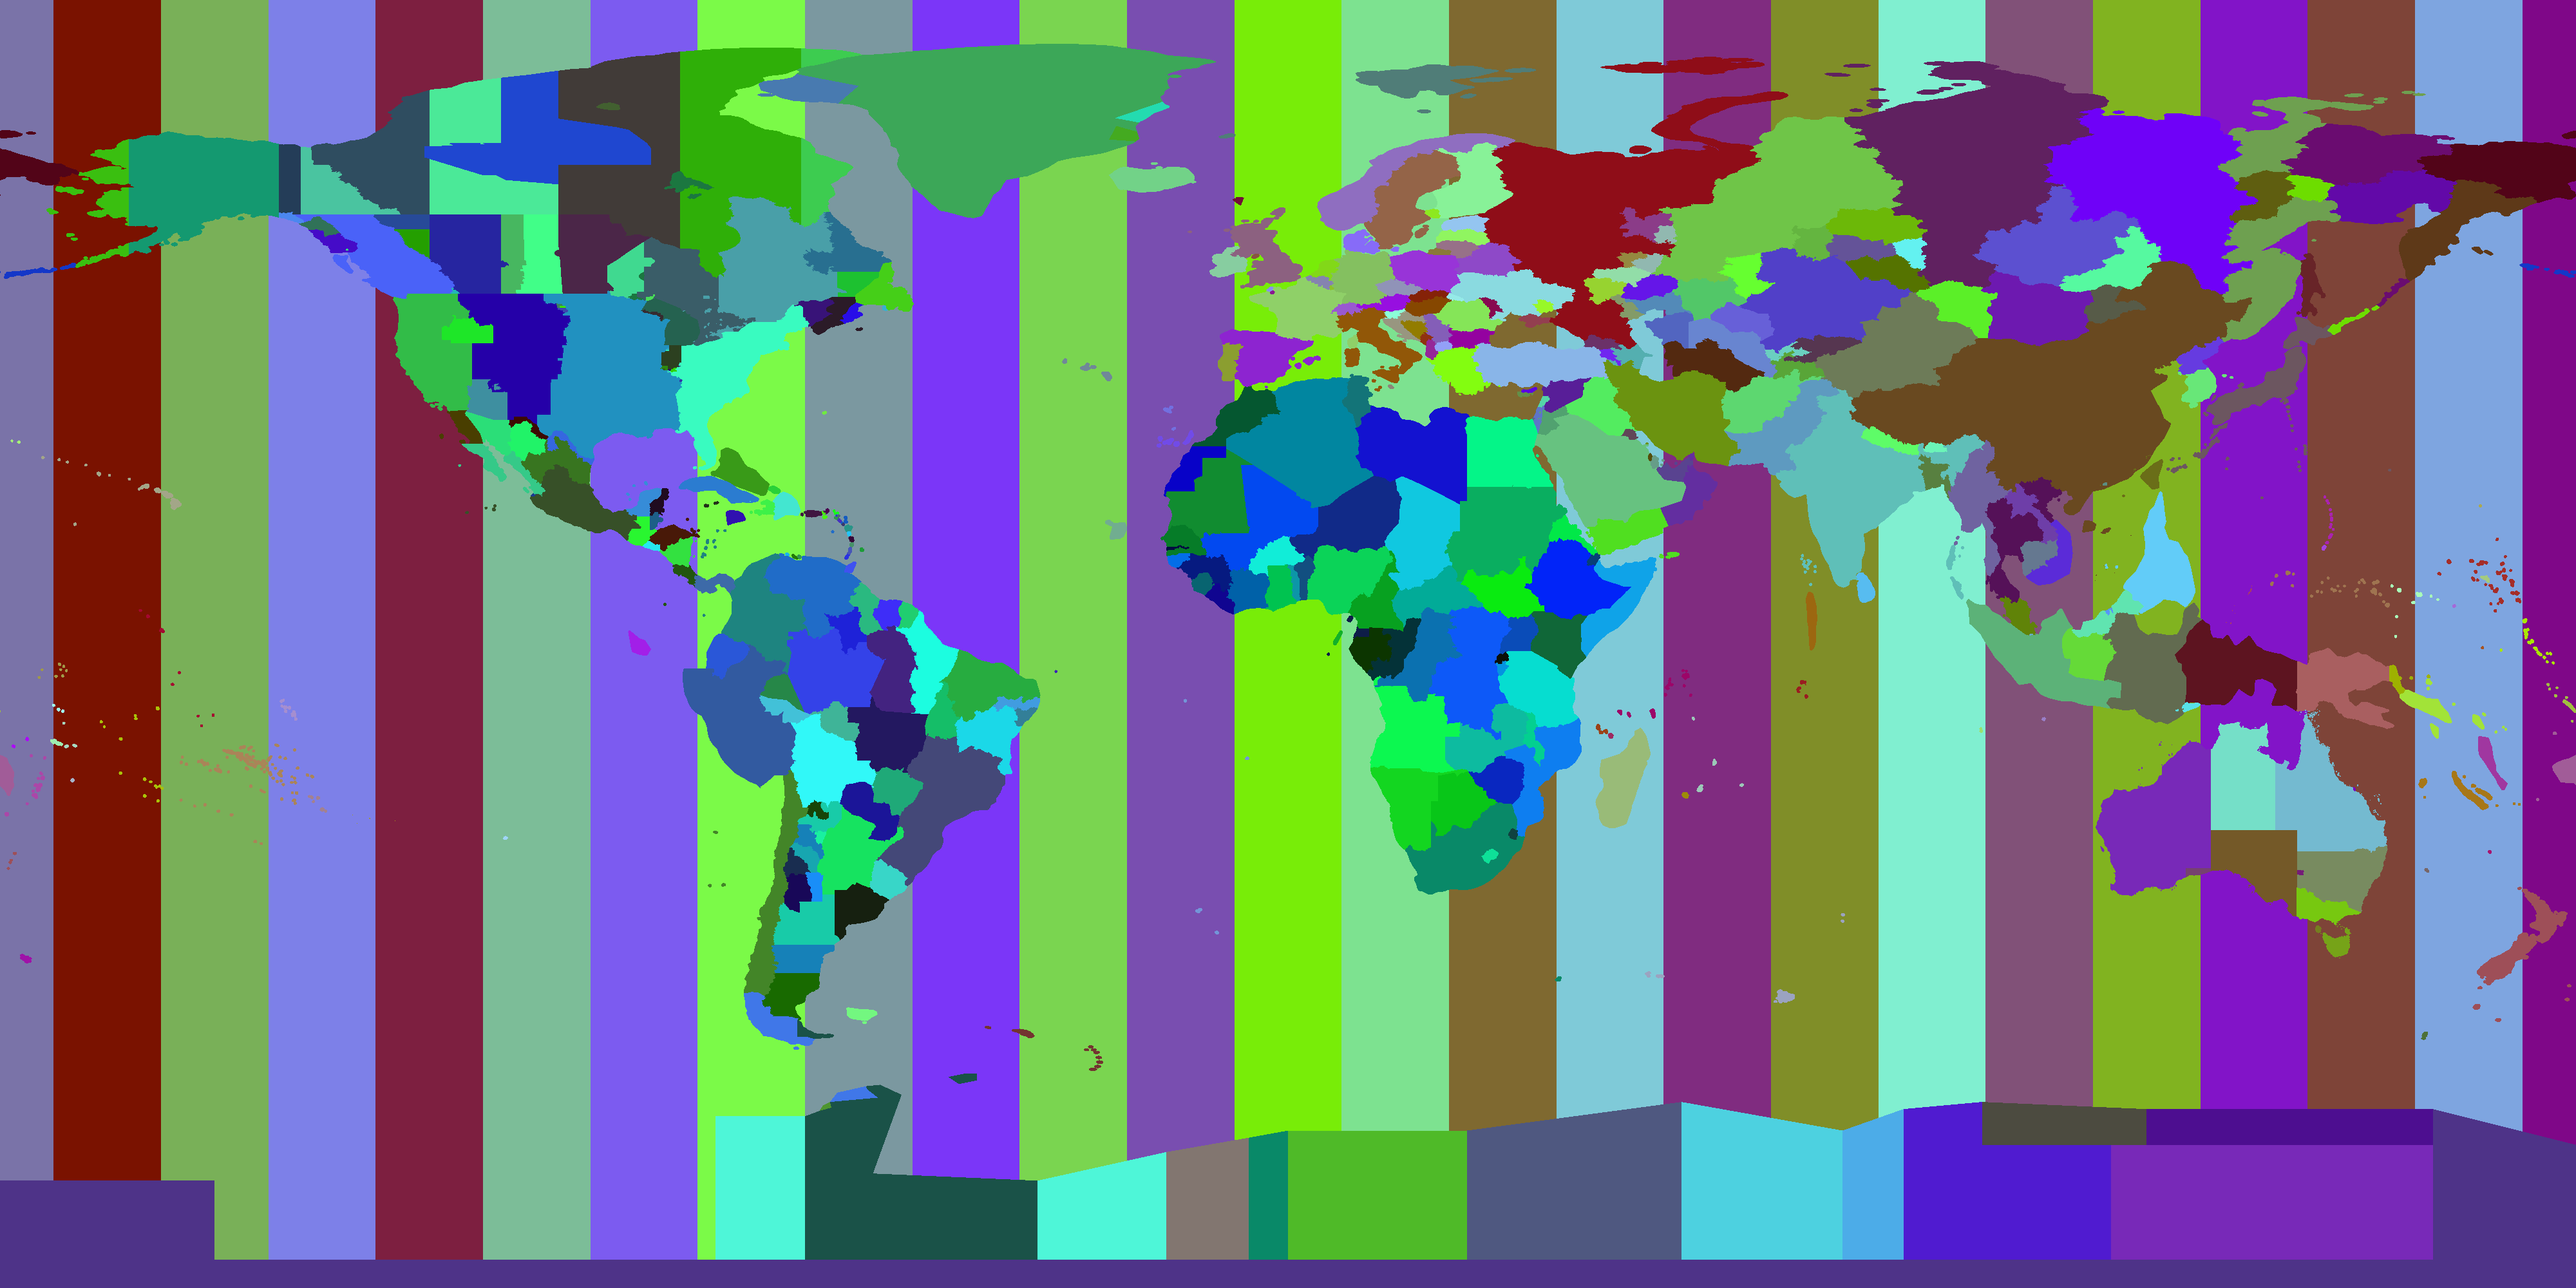
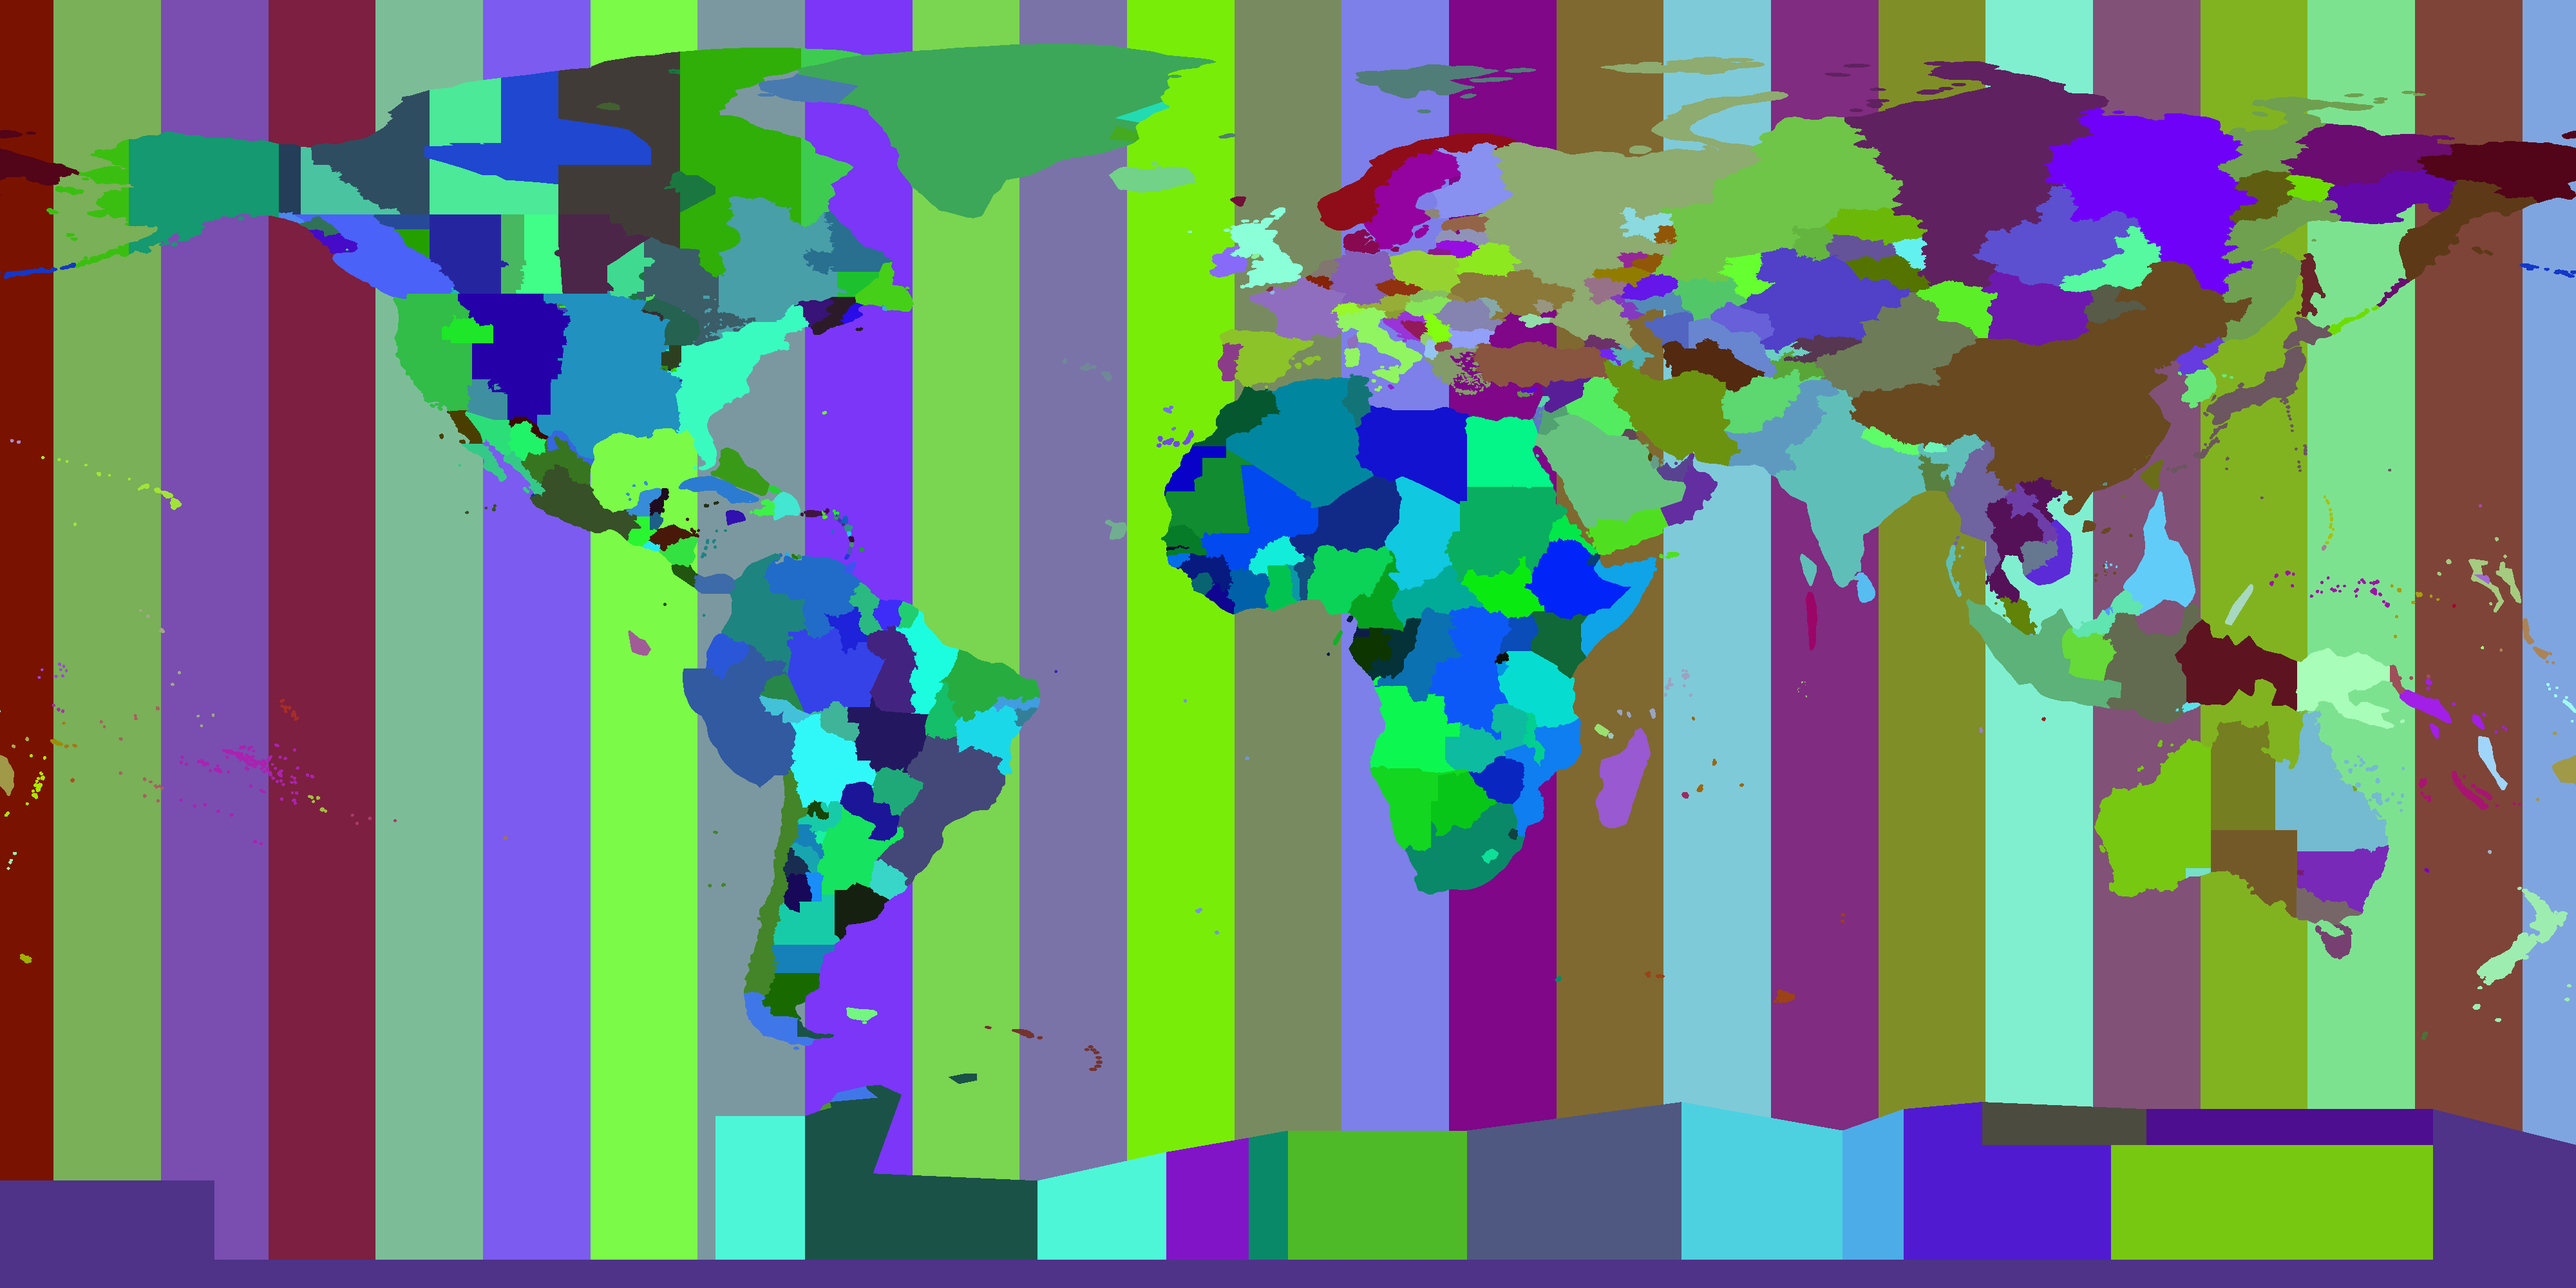
Updated the timezone data files to 2021c

diff --git a/ChangeLog.rst b/ChangeLog.rst
@@ -1,4 +1,8 @@
-* **Change**: As `Marble <https://marble.kde.org/>`_ now has a decent versioning scheme (at least
+* **Update:** Updated the timezones data files to 2021c (cf. Timezone Boundary Builder's
+  `Release Announcement
+  <https://github.com/evansiroky/timezone-boundary-builder/releases/tag/2021c>`_).
+
+* **Change:** As `Marble <https://marble.kde.org/>`_ now has a decent versioning scheme (at least
   since the KDE Apps release 21.12.3), KGeoTag now has a defined dependecy for Marble: It now
   depends on at least Marble 21.12.3. It actually can be built against older versions as well, but
   due to the lack of proper version bumps, there was no way to define a definitive version to depend
